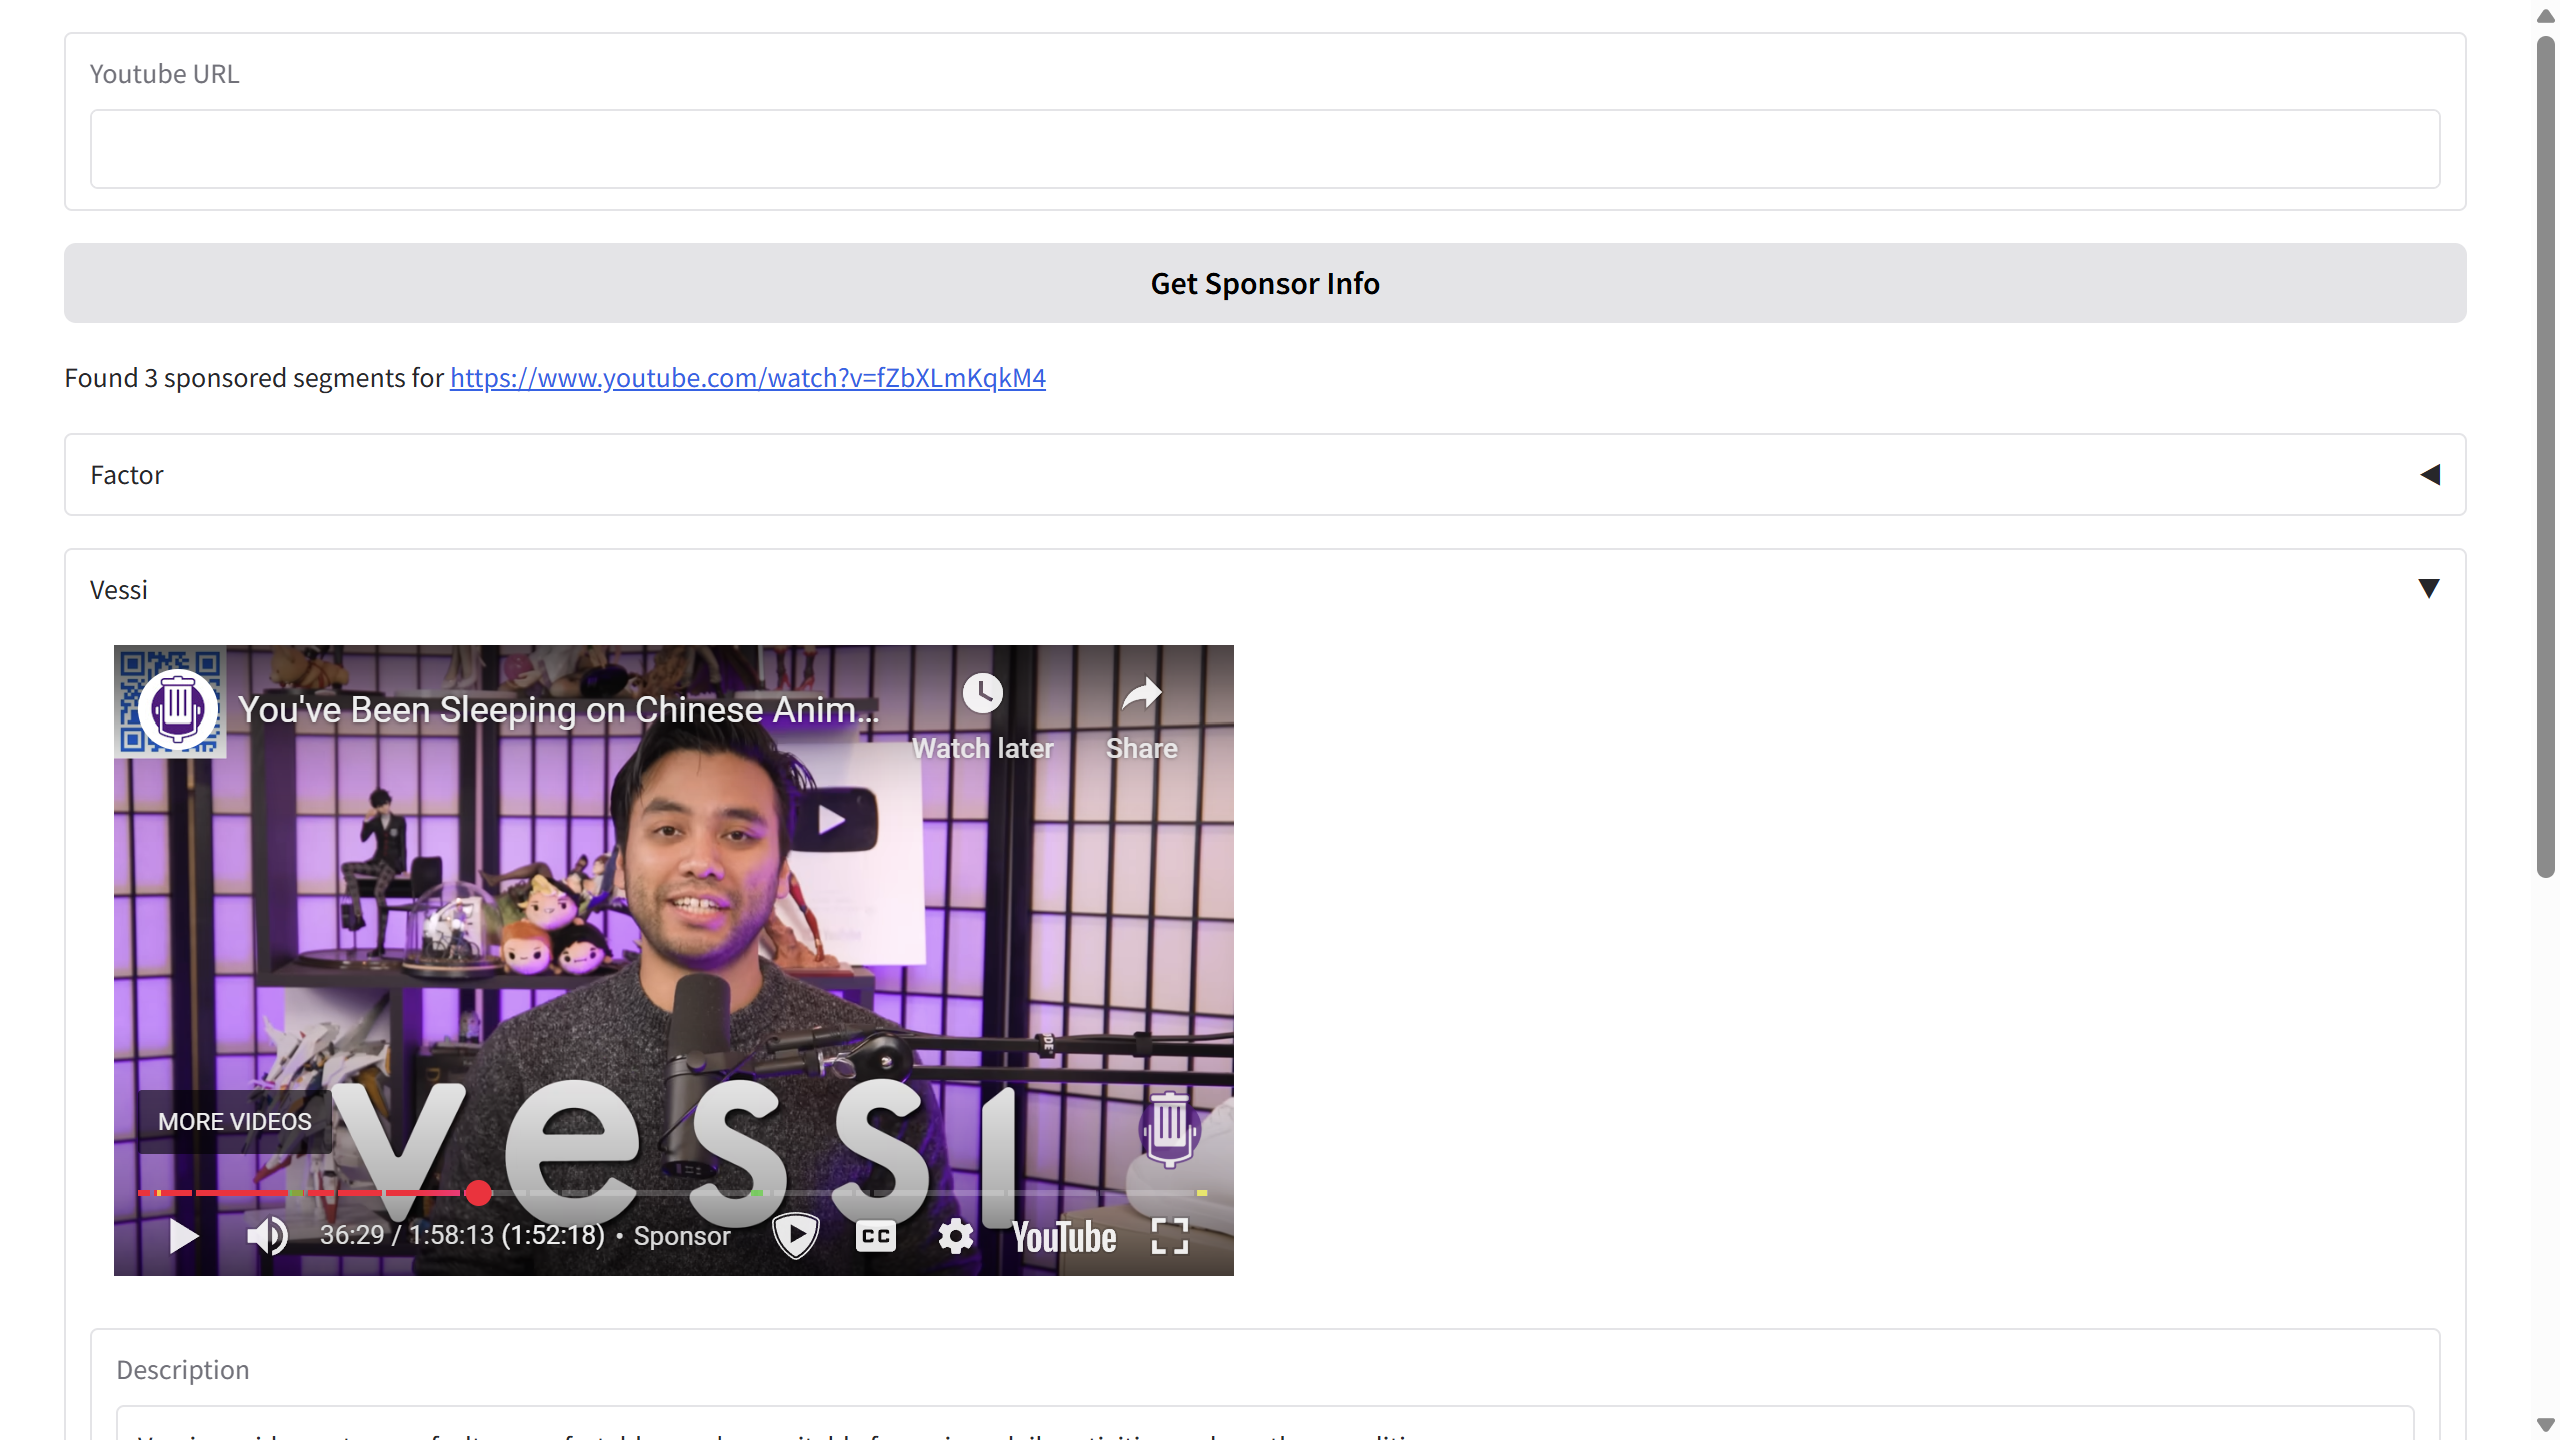
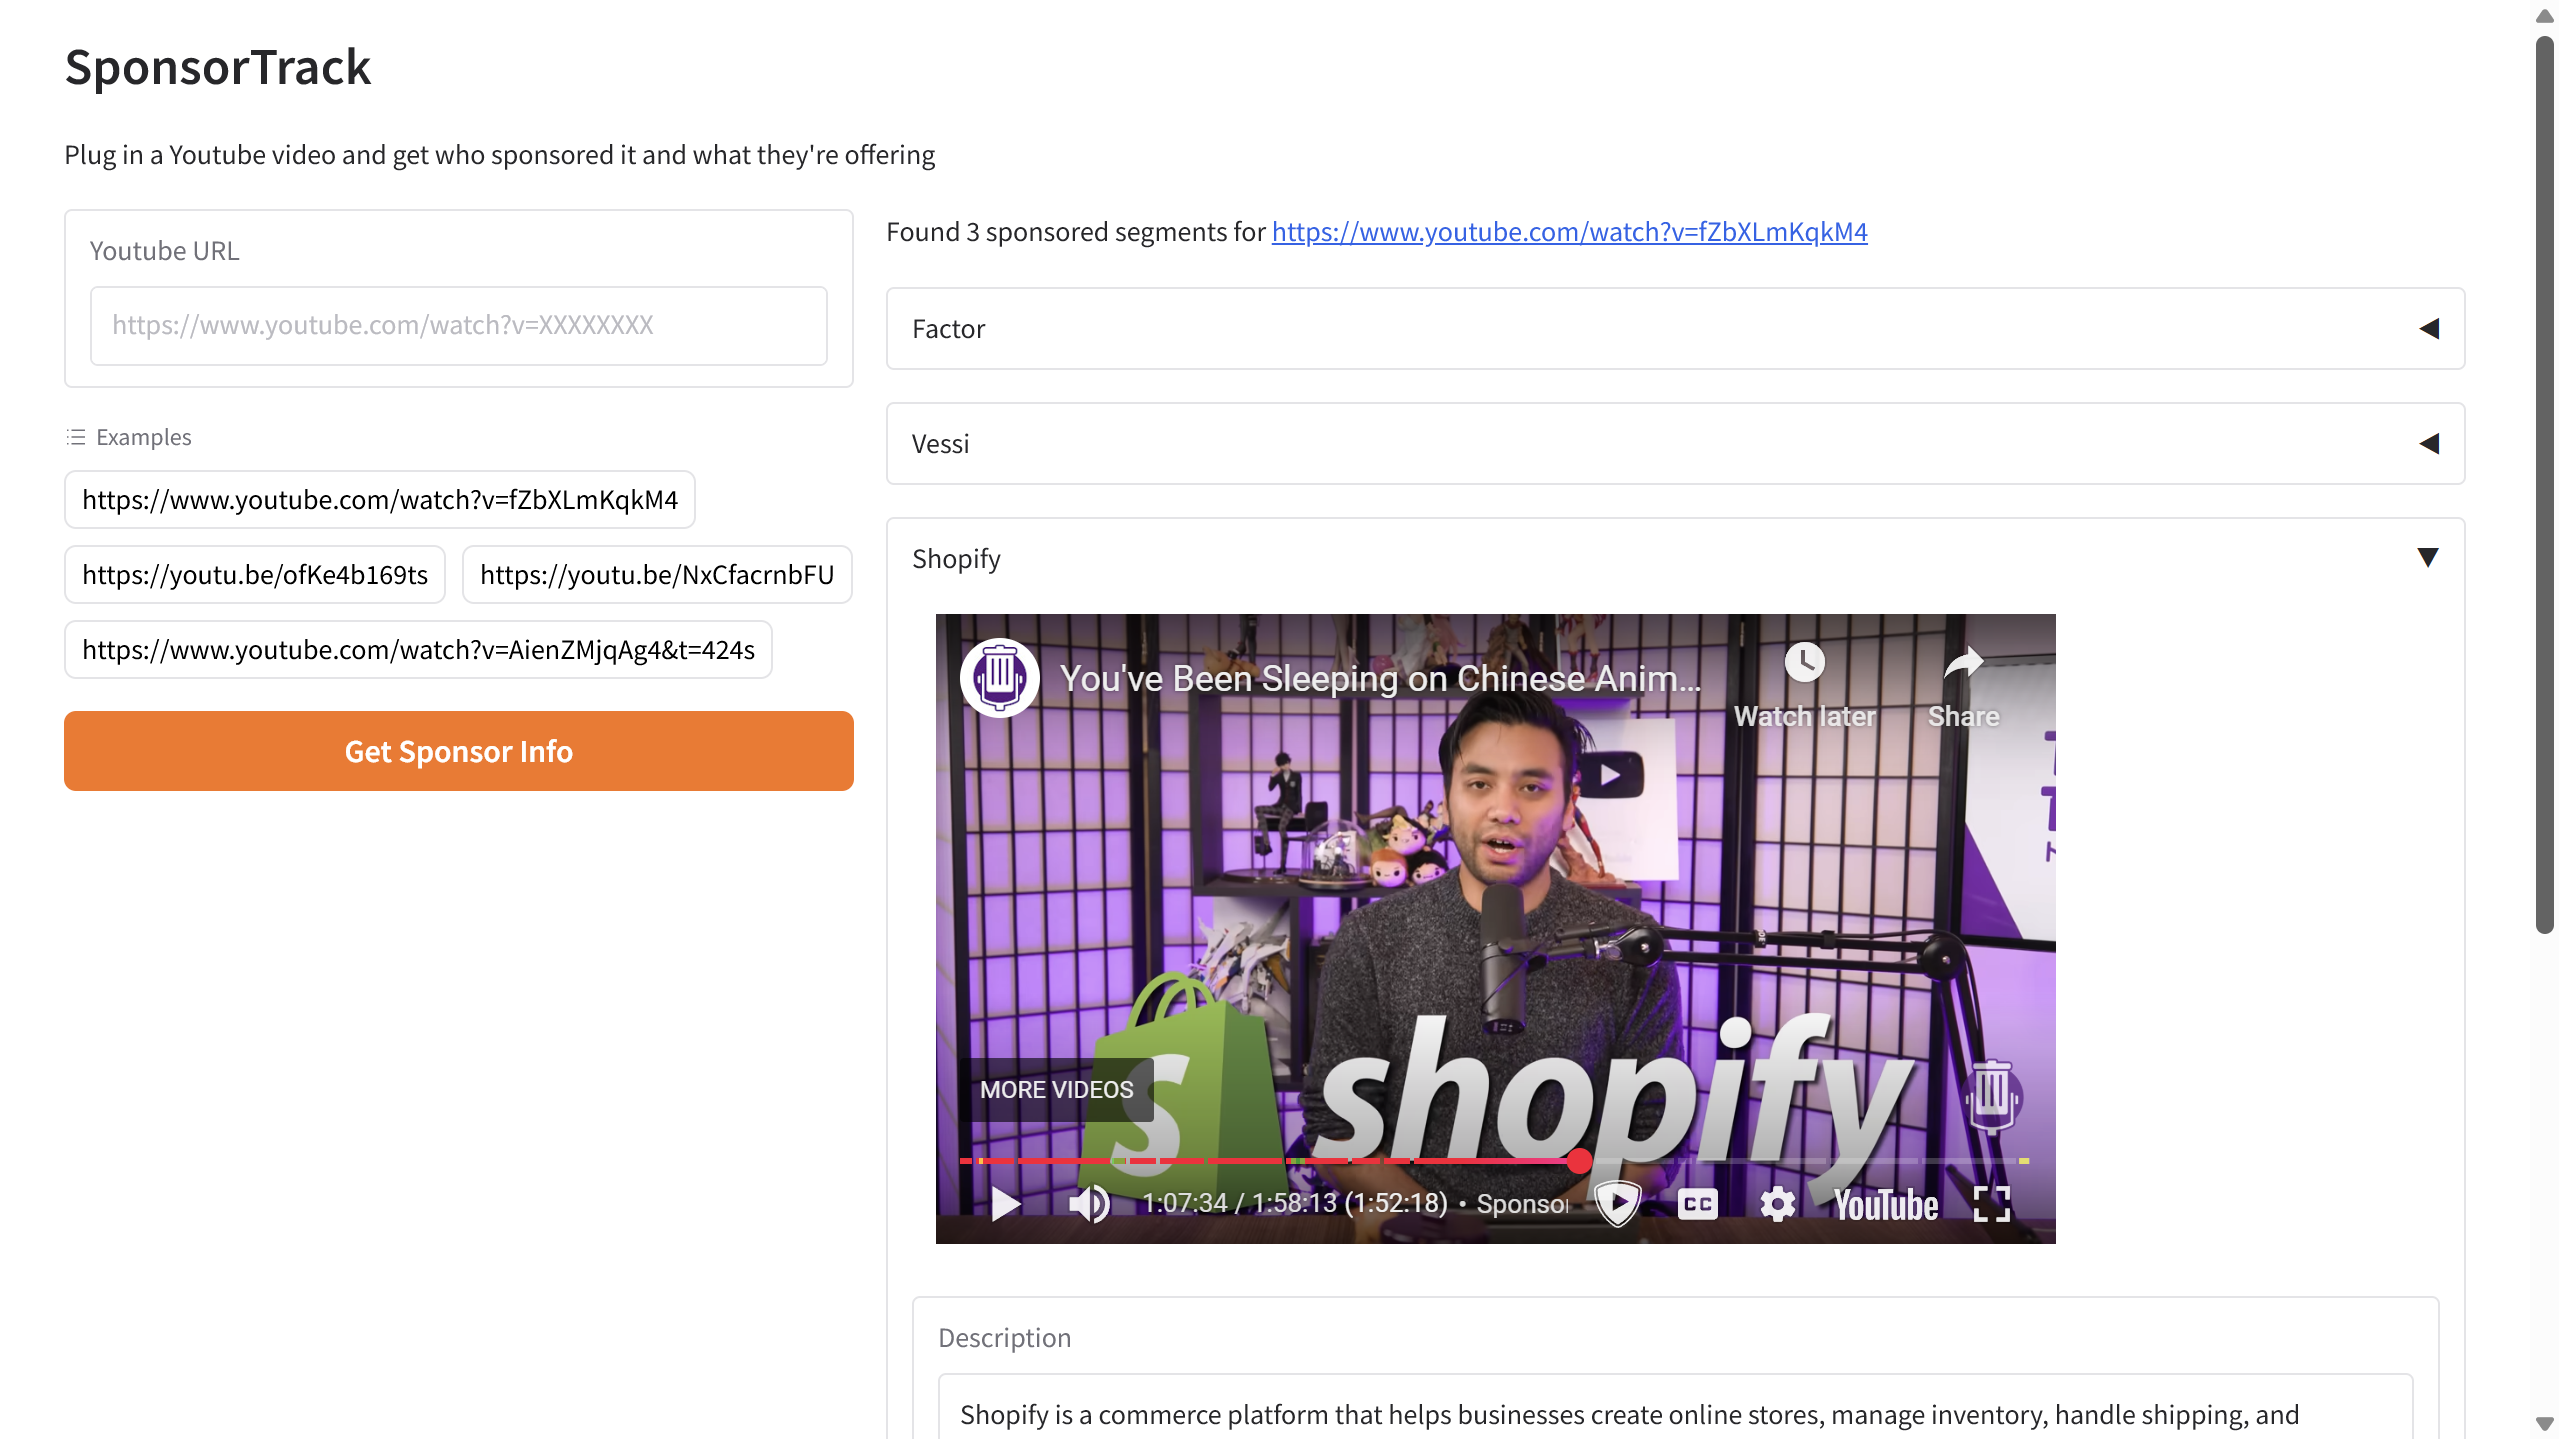
modify app layout & update screenshot

diff --git a/src/sponsortrack/frontend/app.py b/src/sponsortrack/frontend/app.py
@@ -2,45 +2,70 @@ import gradio as gr
 from sponsortrack.backend.video import Video
 
 
-def submit(url, segments):
-    segments_copy = segments.copy()
+def submit(url):
     video = Video(url)
     segments_info = video.fetch_segments_info()
-    segments_copy.extend(segments_info)
-    return "", segments_copy
+    return "", segments_info
 
 
 with gr.Blocks() as demo:
-    url = gr.Textbox(label="Youtube URL")
-    submit_btn = gr.Button("Get Sponsor Info")
-    segments = gr.State([])
-    submit_btn.click(fn=submit, inputs=[url, segments], outputs=[url, segments], api_name="submit")
+    with gr.Row():
+        gr.Markdown("""
+# SponsorTrack
+Plug in a Youtube video and get who sponsored it and what they're offering
+        """)
 
-    @gr.render(inputs=segments)
-    def render_count(arr):
-        if len(arr) != 0:
-            gr.Markdown(
-                f"Found {len(arr)} sponsored segment{'' if len(arr) == 1 else 's'} for https://www.youtube.com/watch?v={arr[0]['parent_video_id']}"
+    with gr.Row():
+        with gr.Column(scale=1):
+            url = gr.Textbox(
+                label="Youtube URL", placeholder="https://www.youtube.com/watch?v=XXXXXXXX"
             )
-            for i, segment in enumerate(arr):
-                with gr.Accordion(label=f"{segment['sponsor_info']['sponsor_name']}", open=False):
-                    gr.HTML(f"""
-                        <iframe
-                            width="560"
-                            height="315"
-                            src="https://www.youtube.com/embed/{segment["parent_video_id"]}?start={int(segment["start_time"])}"
-                            frameborder="0"
-                            allow="accelerometer; autoplay; clipboard-write; encrypted-media; gyroscope; picture-in-picture; web-share"
-                            referrerpolicy="strict-origin-when-cross-origin"
-                            allowfullscreen>
-                        </iframe>""")
-                    gr.TextArea(
-                        label="Description", value=segment["sponsor_info"]["sponsor_description"]
+            examples = gr.Examples(
+                examples=[
+                    "https://www.youtube.com/watch?v=fZbXLmKqkM4",
+                    "https://youtu.be/ofKe4b169ts",
+                    "https://youtu.be/NxCfacrnbFU",
+                    "https://www.youtube.com/watch?v=AienZMjqAg4&t=424s",
+                ],
+                inputs=[url],
+            )
+            submit_btn = gr.Button("Get Sponsor Info", variant="primary")
+            segments = gr.State([])
+            submit_btn.click(fn=submit, inputs=[url], outputs=[url, segments], api_name="submit")
+
+        with gr.Column(scale=2):
+
+            @gr.render(inputs=segments)
+            def render_count(arr):
+                if len(arr) != 0:
+                    gr.Markdown(
+                        f"Found {len(arr)} sponsored segment{'' if len(arr) == 1 else 's'} for https://www.youtube.com/watch?v={arr[0]['parent_video_id']}"
                     )
-                    gr.Textbox(label="Offer", value=segment["sponsor_info"]["sponsor_offer"])
-                    gr.Textbox(
-                        label="Links", value=", ".join(segment["sponsor_info"]["sponsor_links"])
-                    )
+                    for i, segment in enumerate(arr):
+                        with gr.Accordion(
+                            label=f"{segment['sponsor_info']['sponsor_name']}", open=False
+                        ):
+                            gr.HTML(f"""
+                                <iframe
+                                    width="560"
+                                    height="315"
+                                    src="https://www.youtube.com/embed/{segment["parent_video_id"]}?start={int(segment["start_time"])}"
+                                    frameborder="0"
+                                    allow="accelerometer; autoplay; clipboard-write; encrypted-media; gyroscope; picture-in-picture; web-share"
+                                    referrerpolicy="strict-origin-when-cross-origin"
+                                    allowfullscreen>
+                                </iframe>""")
+                            gr.TextArea(
+                                label="Description",
+                                value=segment["sponsor_info"]["sponsor_description"],
+                            )
+                            gr.Textbox(
+                                label="Offer", value=segment["sponsor_info"]["sponsor_offer"]
+                            )
+                            gr.Textbox(
+                                label="Links",
+                                value=", ".join(segment["sponsor_info"]["sponsor_links"]),
+                            )
 
 
 demo.queue().launch(show_error=True)
